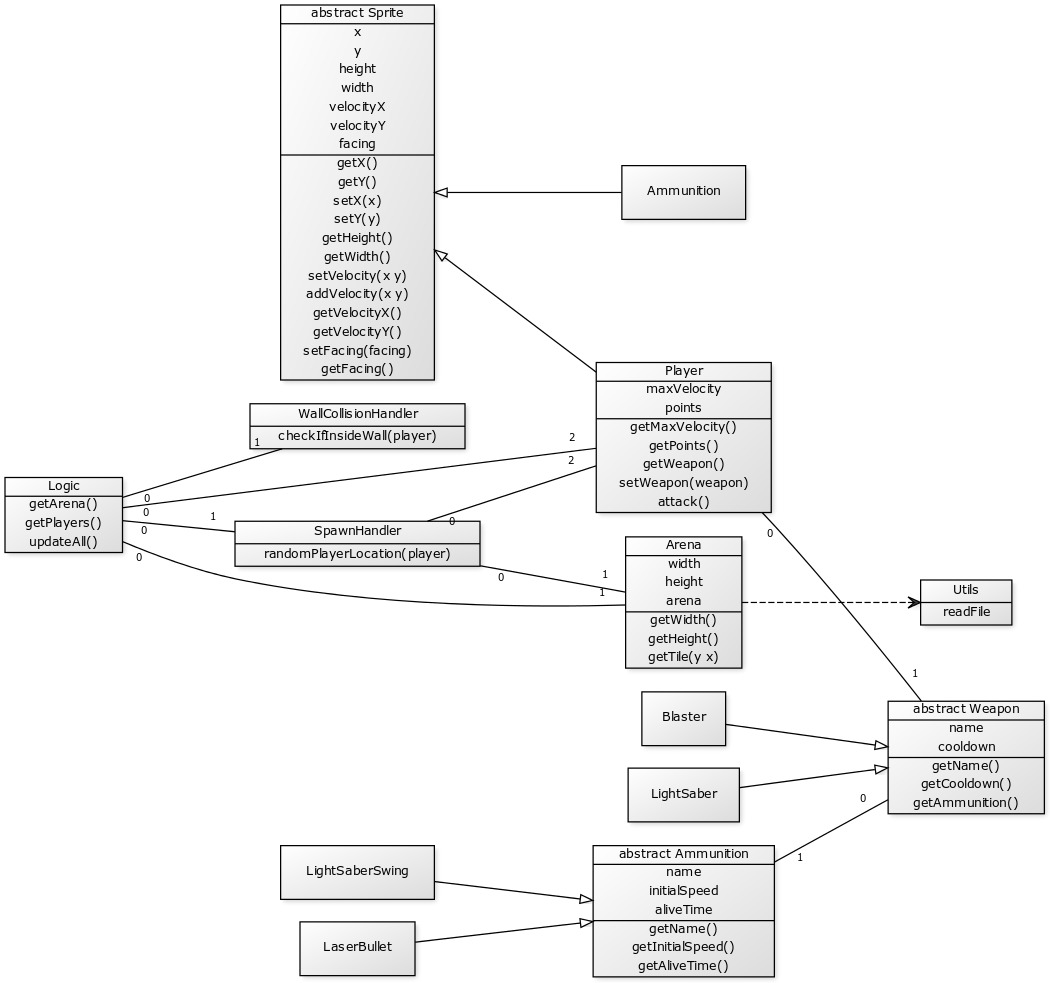
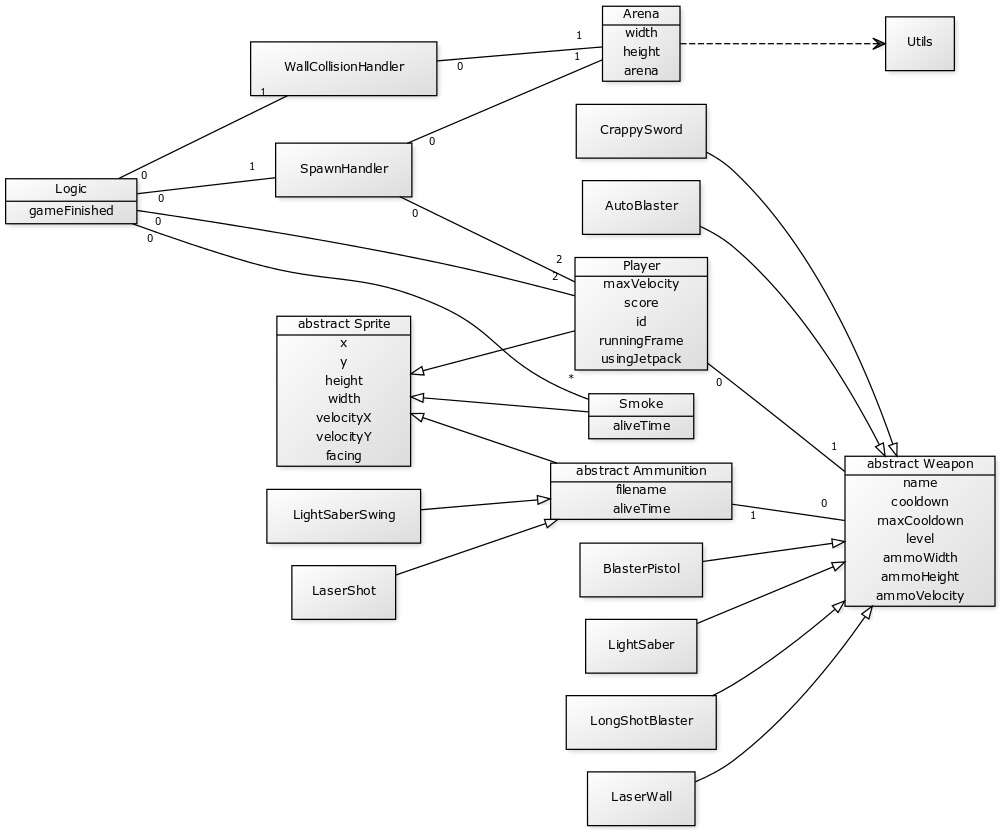
documentation updated

diff --git a/swduel/dokumentaatio/vaatimusmaarittely.md b/swduel/dokumentaatio/vaatimusmaarittely.md
@@ -2,59 +2,68 @@
 
 ## Sovelluksen yleiskuvaus
 
-Sovellus on peli, jossa kaksi pelaajaa taistelevat toisiaan vastaan. Molemmat pelaajat kontrolloivat omaa hahmoaan ja yrittävät saada osumia toiseen pelaajaan.
+- Sovellus on peli, jossa kaksi pelaajaa taistelevat toisiaan vastaan. Molemmat pelaajat kontrolloivat omaa hahmoaan ja yrittävät saada osumia toiseen pelaajaan.
 
 ## Käyttäjät
 
-Pelin pelaamiseen tarvitaan 2 henkilöä, jotka pelaavat samalta koneelta. Pelissä ei luoda omia käyttäjiä.
+- Pelin pelaamiseen tarvitaan 2 henkilöä, jotka pelaavat samalta koneelta. Pelissä ei luoda omia käyttäjiä.
 
 ## Käyttöliittymä
 
-Käyttöliittymä on mahdollisimman yksinkertainen. Otsikkonäkymästä voi siirtyä pelaamaan tai lukemaan ohjeet.
+- Käyttöliittymä on mahdollisimman yksinkertainen.
+- Päävalikko voi siirtyä pelaamaan, vaihtaa areenaa tai kytkeä musiikin pois päältä.
+- Pelissä voi taistella tai siitä voi poistua painamalla ESC:iä.
 
+### Käyttöliittymäluonnos
 <img src="kuvat/otsikkonakyma.jpg" alt=otsikkonakyma width="400" /><img src="kuvat/taistelunakyma.jpg" alt=taistelunakyma width="400" />
 
 ## Pelin toiminnallisuus
 
-Sovellus käynnistyy otsikko-ikkunaan, josta voi lukea ohjeen tai alkaa pelaamaan.
-Ohje kertoo lyhyesti pelin tavoitteen ja miten pelihahmoja liikutetaan.
+- Sovellus käynnistyy päävalikkoon, josta voi valita areenan, kytkeä musiikin pois/päälle tai alkaa pelaamaan.
+- Ohje kertoo lyhyesti pelin tavoitteen ja miten pelihahmoja liikutetaan.
 
 ### Pelaa
 
 #### Areena
 
-Pelaajat taistelevat aina samalla areenalla. Areenalla on korkeuseroja ja tasoja, joilla pelihahmot voivat liikkua.
+- Pelaajat taistelevat yhden pelin yhdellä areenalla. Areenalla on korkeuseroja ja tasoja, joilla pelihahmot voivat liikkua.
 
 #### Taistelu
 
+##### Ohjaaminen
+
+- Peliä ohjataan näppäimistöltä
+- Pelissä on tuki gamepadille. Jos padi on liitetty tietokoneeseen, ohjataan sillä toista pelaajaa näppäimistön sijasta.
+- Jos tietokoneeseen on liitetty 2 gamepadia, ohjataan molempia pelaajia niillä.
+
 ##### Liikkuminen
 
-Pelihahmot pystyvät liikkumaan sivusuunnassa sekä hyppäämään.
+- Pelihahmot pystyvät liikkumaan sivusuunnassa sekä lentämään rakettirepuilla.
 
 ##### Hyökkäys
 
-Pelihahmot voivat hyökätä aseellaan 8 suuntaan ympärilleen.
+- Pelihahmot voivat hyökätä aseellaan. Hyökkäys vaihtelee aseen mukaan.
 
 ##### Aseet
 
-Pelihahmot käyttävät erilaisia aseita, lähitaisteluaseista ampuma-aseisiin. Aseilla on erilaisia ominaisuuksia, kuten hyökkäysnopeus, osuma-alue ja hyökkäyksen kesto.
+- Pelihahmot käyttävät erilaisia aseita, lähitaisteluaseista ampuma-aseisiin. Aseilla on erilaisia ominaisuuksia, kuten hyökkäysnopeus, ammuksen tyyppi ja hyökkäyksen kesto.
+
+##### Ammukset
+
+- Aseelle määritetään aina ammus. Ammuksia on erilaisia ja niillä on oma kokonsa ja grafiikkansa.
 
 #### Kuolema
 
-Jos pelihahmo saa osuman, joko toiselta pelaajalta tai vaarasta, pelihahmo kuolee.
-Tällöin toinen pelaaja saa pisteen. Pisteen saaneen pelaajan ase vaihdetaan huonompaan. Osuman saanut pelaaja syntyy uudelleen samalla aseella.
+- Jos pelihahmo saa osuman, pelihahmo kuolee.
+- Tällöin toinen pelaaja saa pisteen. Pisteen saaneen pelaajan ase vaihdetaan huonompaan. Osuman saanut pelaaja syntyy uudelleen samalla aseella.
 
 #### Voittaminen
-Se pelaaja, joka ensimmäisenä on saanut pisteen jokaisella aseella parhaimmasta huonoimpaan, voittaa.
+- Se pelaaja, joka ensimmäisenä on saanut pisteen jokaisella aseella parhaimmasta huonoimpaan, voittaa.
 
 ## Jatkokehitystä
-
-Toimivan perusversion jälkeen peliä täydennetään ajan salliessa esim. seuraavilla toiminnallisuuksilla.
-
-- useampia areenoita
-- areenoille valintasivu
+- hyökkääminen 8 ilmansuuntaan
 - areenoille vaaroja: passiiviset (piikit, laava jne.) sekä aktiiviset (ammukset jne.)
 - vaarojen laukeaminen kun pelaaja astuu tiettyyn kohtaan
-- taustan luominen areenalle
-- aseen vaihtumisen sijasta vaihtuu pelihahmo (jolla on kyseinen ase).
-- Pelihahmoista erilaisempia. Esim. koko voi olla eri tai hyppäämisen sijasta hahmo lentää rakettirepulla.
+- taustan luominen areenalle (satunnainen - areenakohtainen?)
+- aseen vaihtumisen sijasta vaihtuu pelihahmo (jolla on kyseinen ase)
+- Pelihahmoista erilaisempia. Esim. koko voi olla eri.

diff --git a/swduel/dokumentaatio/arkkitehtuurikuvaus.md b/swduel/dokumentaatio/arkkitehtuurikuvaus.md
@@ -1,16 +1,17 @@
 # Arkkitehtuurikuvaus
 
-![Luokkakaavio](kuvat/luokkakaavio.jpg "Luokkakaavio")
-
-![Sekvenssikaavio](kuvat/sekvenssikaavio.png "Sekvenssikaavio")
-
 ## Rakenne
 
 Koodin rakenne on seuraava:
-SwduelUi -> TitleMenu
-TitleMenu -> Game
+SwduelUi -> GameMenu
+GameMenu -> Game / AudioHandler (taustamusiikille)
 Game -> Logic / GameScreen / ActionHandler
 Logic -> Kaikki loput
+
+Luokkakaavio pelin sisäisestä toiminnallisuudesta
+![Luokkakaavio](kuvat/luokkakaavio.jpg "Luokkakaavio")
+https://yuml.me/edit/1290d7ec
+
 
 ## Käyttöliittymä
 
@@ -19,13 +20,13 @@ Käyttöliittymä sisältää kaksi erillistä näkymää
 - valikkonäkymä
 - pelinäkymä
 
-molemmat ovat toteutettu omana Scene-oliona. Näkymistä yksi kerrallaan on näkyvänä, eli sijoitettu sovelluksen stageen. Käyttöliittymä on pakkauksessa swduel.ui.
+Molemmat ovat toteutettu omana Scene-oliona. Näkymistä yksi kerrallaan on näkyvänä, eli sijoitettu sovelluksen stageen. Käyttöliittymä on pakkauksessa swduel.ui.
 
 ## Sovelluslogiikka
 
 Löytyy pakkauksesta swduel.domain
 
-Valikkonäkymän logiikasta huolehtii luokka TitleMenu (osa UI:ta).
+Valikkonäkymän logiikasta huolehtii luokka GameMenu (osa UI:ta).
 
 Pelinäkymän sovelluslogiikasta huolehtii luokka Game, jolle annetaan parametrina pelattavan areenan nimi.
 
@@ -45,7 +46,11 @@ Luokka Logic:
 
 Luokka GameScreen:
 - Piirtää pelialueen ja päivittää sitä (60 fps)
-- Tausta (vaalensininen?)
+- Tausta (vaalensininen)
 - Areenan ruudut
 - Pelaajat
-- Esineet (ammukset)
+- Ammukset
+
+Päätoiminnalisuuksista muutama sekvenssikaavio:
+![Sekvenssikaavio](kuvat/sekvenssikaavio.png "Sekvenssikaavio")
+![Hyökkäyksen sekvenssikaavio](kuvat/sekvenssikaavio-attack.png)

diff --git a/swduel/dokumentaatio/testaus.md b/swduel/dokumentaatio/testaus.md
@@ -1,0 +1,36 @@
+# Testausdokumentti
+
+Ohjelmaa on testattu JUnitilla sekä manuaalisesti.
+
+## Yksikkö- ja integraatiotestaus
+
+### Sovelluslogiikka
+
+JUnit testit testaavat jokaista luokkaa.
+Integraatiotestausta esiintyy Logic-luokassa jonkin verran.
+
+### Testauskattavuus
+
+![Testauskattavuus](kuvat/testauskattavuus.png)
+
+Testauskattavuus on hyvä, lukuunottamatta WallCollisionHandler -luokkaa sekä muutamaa satunnaista tapahtumaa.
+WallCollisionHandler-luokassa ei testata tapauksia, joissa pelaaja on seinän sisässä kulmista sekä vain keskiosasta.
+
+## Järjestelmätestaus
+
+Sovelluksen järjestelmätestaus on suoritettu manuaalisesti.
+
+### Asennus ja konfigurointi
+
+Sovellus on haettu ja sitä on testattu [käyttöohjeen](kayttoohje.md) kuvaamalla tavalla Linux-ympäristössä siten, että sovelluksen käynnistyshakemistossa on ollut sovelluksen vaatimat kansiot ja tiedostot.
+
+Sovellusta on myös testattu Windows-ympäristössä, jossa ilmeni, että pelin ikkuna ei ole Windows-ympäristössä oikean kokoinen.
+
+### Toiminnallisuudet
+
+Kaikki toiminnallisuudet on käyty läpi ja niistä on yritetty etsiä virheitä.
+Yksi virhe on sellainen, että välillä aseella 'Lightsaber' pystyy vahingoittamaan itseään, vaikkei sen pitäisi olla mahdollista.
+
+## Sovellukseen jääneet laatuongelmat
+
+Sovellus ei anna järkeviä virheilmoituksia jos jokin vaadittava kansio tai tiedosto puuttuu.

diff --git a/swduel/dokumentaatio/kayttoohje.md b/swduel/dokumentaatio/kayttoohje.md
@@ -9,8 +9,9 @@ Se pelaaja, joka saa osuman ensin kaikilla aseilla toiseen pelaajaan, voittaa.
 ### Päävalikko
 Päävalikossa valitaan areena jolla taistellaan.
 
-- Nuolinäppäimet oikealle ja vasemmalle valitsevat pelattavan areenan.
-- Enter käynnistää pelin.
+- Nuolinäppäimet oikealle ja vasemmalle valitsevat pelattavan areenan
+- Enter käynnistää pelin
+- 'M' kytkee musiikin päälle/pois
 
 ### Pelinäkymä
 
@@ -25,3 +26,8 @@ Päävalikossa valitaan areena jolla taistellaan.
 - NUOLINÄPPÄIN OIKEALLE: liike oikealle
 - CTRL: lennä rakettirepulla
 - SHIFT: ammu
+
+**Gamepad**
+- Napit: ammu
+- Tatit/ristikko-ohjain sivulle: liiku oikealle/vasemmalle
+- Tatit/ristikko-ohjain ylös, r1,r2,l1,l2: lennä rakettirepulla
